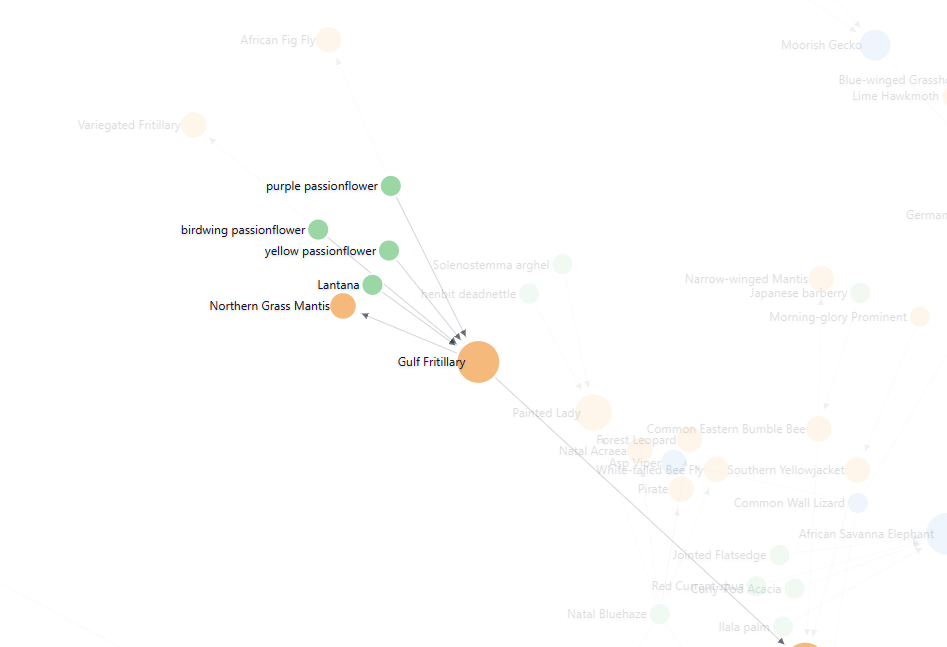
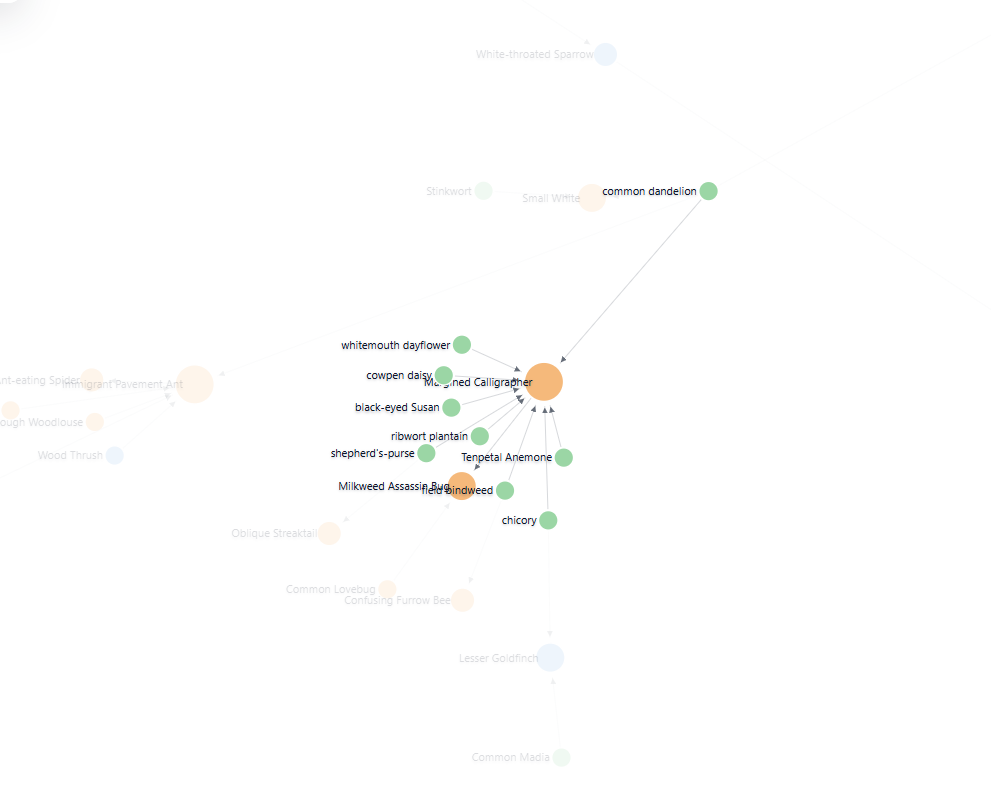
WHW portfolio page

diff --git a/sas-portfolio.html b/sas-portfolio.html
@@ -9,31 +9,30 @@
   <body>
     <div class="main">
         <div class="objectiveBox">
-        <p>The goal of Who Eats Whom is to create a searchable database of feeding observations on iNaturalist. I was tasked with Enhanced an interactive node-link diagram for food-web exploration using a modern JavaScript visualization library, improving usability and visual clarity.</p>
+        <p>During my internship at SAS, I served as a full-stack developer on a healthcare data analytics platform. My core objective was to bridge the gap between robust back-end logic and seamless front-end user experience. I focused on expanding API capabilities, ensuring data synchronization, hardening the codebase through testing, and optimizing the application for global accessibility and deployment </p>
     </div>
         <div class="wEwSkills"> 
-                <p>Skills:<br> HTML/CSS, Javascript, D3.js, Data Visualization</p>
-            </div>
-      <div class="containerDiv1">
-        <img src="/focus-after.png" />
+                <p>Skills:<br> ReactJS, Golang, Unit Testing, Rest API</p>
+        </div>
+      <div class="sas-div-1">
+        <p>Designed and implemented comprehensive unit tests for front-end and back-end codebases, increasing back-end code coverage by 10%, and exceeding the team's coverage goal threshold.
+</p> 
       </div>
-      <div class="containerDiv2">
-        <img src="/placeholder.png" />
+      <div class="sas-div-2">
+        <p>  application did not fully meet the strict accessibility (WCAG) requirements needed for the healthcare industry..</p> 
       </div>
-      <div class="containerDiv3">
-        <img src="/zoomed-out-cond.png" />
+      <div class="sas-div-3">
+        <p> Users were experiencing inconsistent data synchronization on the front-end, and the</p> 
       </div>
+      <!--  -->
       <div class="containerDiv1Text">
-        <p>Implemented an ego-graph focus mode to isolate a selected node and its direct relationships, enabling more focused exploration of food-web structures.
-</p>
+        <p>:Diagnosed and resolved complex front-end state bugs,ui-backend consistency.</p>
       </div>
        <div class="containerDiv2Text">
-        <p>Partnered with design team to standardize edge styles and refine arrowhead-to-node connections, improving readability and clarifying directional relationships.
-</p>
-      </div>
-       <div class="containerDiv3Text">
-        <p>Implemented conditional label rendering to display node information dynamically and reduce visual clutter in complex food-web networks.
-</p>
+        <p> Accessibility Implementation: Collaborated directly with the company's accessibility team. I received feedback on component design and implemented improvements across the React front-end to meet WCAG guidelines.
+        </div>
+            <div class="containerDiv3Text">
+        <p> :Diagnosed and resolved complex front-end state bugs,ui-backend consistency.<</p>
       </div>
      
     </div>

diff --git a/style.css b/style.css
@@ -452,7 +452,7 @@ a {
 
 .objectiveBox {
   border: 5px #9bd6a5 solid;
-  box-shadow:  4px 4px  #71c36e;
+  box-shadow: 4px 4px #71c36e;
   background-color: #9bd6a5;
   border-radius: 10px;
   width: 800px;
@@ -464,24 +464,23 @@ a {
 
   text-align: center;
   justify-self: right;
-  grid-column:  2;
+  grid-column: 2;
   grid-row: 1;
   box-sizing: border-box;
   font-size: 0.95rem;
 }
 
-
-.wEwSkills{
-     grid-column: 3;
+.wEwSkills {
+  grid-column: 3;
   /* /* grid-row: 1;  */
   justify-self: center;
   font-size: 0.85rem;
   display: flex;
   box-sizing: border-box;
-   border: 5px #9bd6a5 solid;
-  box-shadow:  4px 4px  #71c36e;
+  border: 5px #9bd6a5 solid;
+  box-shadow: 4px 4px #71c36e;
   background-color: #9bd6a5;
-    border-radius: 10px;
+  border-radius: 10px;
   text-align: center;
   align-items: center;
 
@@ -494,7 +493,6 @@ a {
 .containerDiv1 {
   grid-column: 1;
   grid-row: 2;
-
 }
 .containerDiv2 {
   grid-column: 2;
@@ -507,24 +505,27 @@ a {
 
 .containerDiv1,
 .containerDiv2,
-.containerDiv3 {
-  border: 5px #fed968 solid;
+.containerDiv3,
+.sas-div-1,
+.sas-div-2,
+.sas-div-3 {
+  border: 12px #fed968 solid;
   background-color: #fed968;
   border-radius: 10px;
-  width: 450px;
+  width: 400px;
   height: 400px;
+    margin-left: 50px;
+
   text-align: center;
   box-sizing: border-box;
-  align-self: center;
-  margin-top: 5px;
   line-height: 2;
-    margin-left: 20px;
-        overflow: hidden;
-
+  overflow: hidden;   
+    box-shadow:  -4px #f4ba7e;
+  box-shadow: -3px 4px 1px #f4ba7e, 1px 1px #f4ba7e;
 
 }
 
-  /* tellow #fed968; */
+/* tellow #fed968; */
 /* blue #006dcf */
 /* green 9bd6a5 */
 .containerDiv1Text,
@@ -533,7 +534,7 @@ a {
   border: 5px #9bd6a5 solid;
   background-color: #9bd6a5;
   border-radius: 10px;
-  width: 350px;
+  width: 400px;
   height: 100px;
   text-align: center;
   box-sizing: border-box;
@@ -542,7 +543,7 @@ a {
   display: flex;
   align-items: center;
   line-height: 1.3;
-
+  /* box-shadow: -2px 2px 1px #71c36e, 2px 2px 1px #71c36e; */
   justify-self: center;
 }
 
@@ -559,8 +560,49 @@ a {
   grid-row: 3;
 }
 
-img {
+.ego-img,
+.focus-img,
+.node-img {
   border-radius: 10px;
-  width: 96%;
-  height: 96%;
+  border: 5px #fed968 solid;
+  background-color: #fed968;
+  transition: background-image 0.7s ease-in-out;
+  background-size: cover; 
+  background-position: center top; 
+  background-repeat: no-repeat; 
+  width: 100%;
+  height: 400px;
+
+}
+
+.ego-img {
+  background-image: url("/focus-after.png");
+
+}
+
+.ego-img:hover {
+  background-image: url("/focus-before.png");
+
+}
+
+.focus-img {
+  background-image: url("/render-out.png");
+}
+.focus-img:hover {
+  background-image: url("/render-in.png");
+}
+
+.node-img {
+  background-image: url("/node_centered.png");
+width: 100%;
+  height: 100%;
+}
+.node-img:hover {
+}
+
+.sas-div-1,
+.sas-div-2,
+.sas-div-3 {
+  border: 5px #006dcf solid;
+  background-color: #006dcf;
 }

diff --git a/whw.html b/whw.html
@@ -12,28 +12,30 @@
         <p>The goal of Who Eats Whom is to create a searchable database of feeding observations on iNaturalist. I was tasked with Enhanced an interactive node-link diagram for food-web exploration using a modern JavaScript visualization library, improving usability and visual clarity.</p>
     </div>
         <div class="wEwSkills"> 
-                <p> Skills: HTML/CSS, Javascript, D3.js, Data Visualization</p>
+                <p>Skills:<br> HTML/CSS, Javascript, D3.js, Data Visualization</p>
             </div>
       <div class="containerDiv1">
-        <img src="/focus-after.png" />
+        <div class="ego-img" ></div>
       </div>
       <div class="containerDiv2">
-        <img src="/placeholder.png" />
+        <div class="focus-img" ></div>
       </div>
       <div class="containerDiv3">
-        <img src="/zoomed-out-cond.png" />
+                <div class="node-img"   ></div>
+
       </div>
       <div class="containerDiv1Text">
-        <p>Implemented an ego-graph focus mode to isolate a selected node and its direct relationships, enabling more focused exploration of food-web structures.
+        <p>Implemented an ego-graph focus mode to isolate a selected node and its direct relationships,, to simplify complex node relationships  enabling more focused exploration of food-web structures.
 </p>
       </div>
        <div class="containerDiv2Text">
-        <p>Partnered with design team to standardize edge styles and refine arrowhead-to-node connections, improving readability and clarifying directional relationships.
+          <p>Implemented conditional label rendering to display node information dynamically and reduce visual clutter in complex food-web networks.
 </p>
       </div>
        <div class="containerDiv3Text">
-        <p>Implemented conditional label rendering to display node information dynamically and reduce visual clutter in complex food-web networks.
-</p>
+      
+        <p>Partnered with design team to standardize edge styles and refine arrowhead-to-node connections, improving readability and clarifying directional relationships.
+
       </div>
      
     </div>

diff --git a/script.js b/script.js
@@ -140,7 +140,3 @@ sas.addEventListener("click", () => {
   }
 });
 
-
-//////// to do
-create a clickable before after function for the imagees 
-so that when clicked you see before hten after
